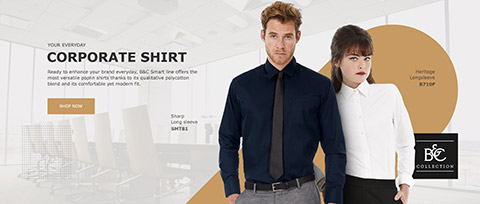
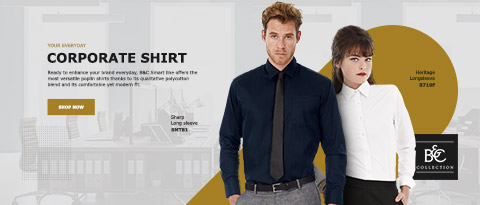
Removed unused-deps, tweeked Images.

diff --git a/src/components/sections/portfolio/Portfolio.js b/src/components/sections/portfolio/Portfolio.js
@@ -2,17 +2,10 @@ import React, { useState, useEffect } from "react";
 import { Link } from "react-router-dom";
 import myProjects from "../../../data/myProjects";
 import useAnimation from "../../../hooks/useAnimation";
-import Button from "../../shared/buttons/Button";
 
 const Portfolio = () => {
   const [animIsLoaded, setAnimIsLoaded] = useState(false);
-  const [option, setOption] = useState("All");
-  const style = { active: "btn option active", inactive: "btn option" };
   const animate = useAnimation();
-
-  const options = (e) => {
-    setOption(e.target.innerText);
-  };
 
   useEffect(() => {
     if (!animIsLoaded) {
@@ -28,27 +21,25 @@ const Portfolio = () => {
         <h2 className="port-title section-title">Recent Projects</h2>
 
         <div className="projects">
-          {myProjects
-            .filter((item) => (option !== "All" ? item.type === option : item))
-            .map((item) => (
-              <div className="project" key={`project-${item.id}`}>
-                <div className="project__image">
-                  <Link to={`/project/${item.id}`}>
-                    <img
-                      src={item.preview_images.mobile}
-                      width="480px"
-                      height="270px"
-                      alt={item.title}
-                    />
-                  </Link>
-                </div>
-                <div className="project__info">
-                  <div className="project__subtitle">{item.type}</div>
-                  <h3 className="project__title">{item.title}</h3>
-                  <div className="project__date">{item.date}</div>
-                </div>
+          {myProjects.map((item) => (
+            <div className="project" key={`project-${item.id}`}>
+              <div className="project__image">
+                <Link to={`/project/${item.id}`}>
+                  <img
+                    src={item.preview_images.mobile}
+                    width="480px"
+                    height="270px"
+                    alt={item.title}
+                  />
+                </Link>
               </div>
-            ))}
+              <div className="project__info">
+                <div className="project__subtitle">{item.type}</div>
+                <h3 className="project__title">{item.title}</h3>
+                <div className="project__date">{item.date}</div>
+              </div>
+            </div>
+          ))}
         </div>
       </div>
     </section>

diff --git a/src/pages/Home.js b/src/pages/Home.js
@@ -1,11 +1,11 @@
 import React, { useState, useEffect } from "react";
 import useScroll from "../hooks/useScroll";
 import Header from "../components/sections/header/Header";
-import Skills from "../components/sections/skills/Skills";
 import Portfolio from "../components/sections/portfolio/Portfolio";
-import Contact from "../components/sections/Contact";
-import About from "../components/sections/about/About";
+import Skills from "../components/sections/skills/Skills";
 import Photoshop from "../components/sections/photoshop/Photoshop";
+import About from "../components/sections/about/About";
+import Contact from "../components/sections/Contact";
 import Slideshow from "../components/sections/slideshow/Slideshow";
 
 const Home = ({ history }) => {

diff --git a/src/components/sections/slideshow/Slideshow.js b/src/components/sections/slideshow/Slideshow.js
@@ -11,14 +11,10 @@ const Slideshow = ({ slideshowIndex, slideshowIsOpen, setSlideshowIsOpen }) => {
   const [activeColor, setActiveColor] = useState(slides[slideshowIndex].color);
   const strokeWidth = 30;
 
-  useEffect(
-    () => setActiveColor(slides[activeSlide].color),
-    [slides, activeSlide]
-  );
+  useEffect(() => setActiveColor(slides[activeSlide].color), [activeSlide]);
 
   useEffect(() => {
     if (slideshowIsOpen) {
-      console.log("slider");
       const slideshow = gsap.timeline();
       slideshow.from(".slider", {
         opacity: 0,

diff --git a/src/components/layout/mobileNavbar/MobileNav.js b/src/components/layout/mobileNavbar/MobileNav.js
@@ -19,7 +19,7 @@ const MobileNav = ({ navIsOpen, setNavIsOpen }) => {
       </ListGroup>
 
       <ListGroup title="Downloads" cn="light">
-        <ListAnchor href="/cv/cv.txt" name="Curriculum vitae" download />
+        <ListAnchor href="/cv/cv.txt" name="Curriculum Vitae" download />
       </ListGroup>
 
       <ListGroup title="Email" cn="light">

diff --git a/src/data/photoshopSlides.js b/src/data/photoshopSlides.js
@@ -15,7 +15,7 @@ const slides = [
       tablet: "/img/slides/bandc-tablet.jpg",
       mobile: "/img/slides/bandc-mobile.jpg",
     },
-    color: "#c79a63",
+    color: "#a67f24",
   },
   {
     title: "Beechfield Trawler Beanie",
